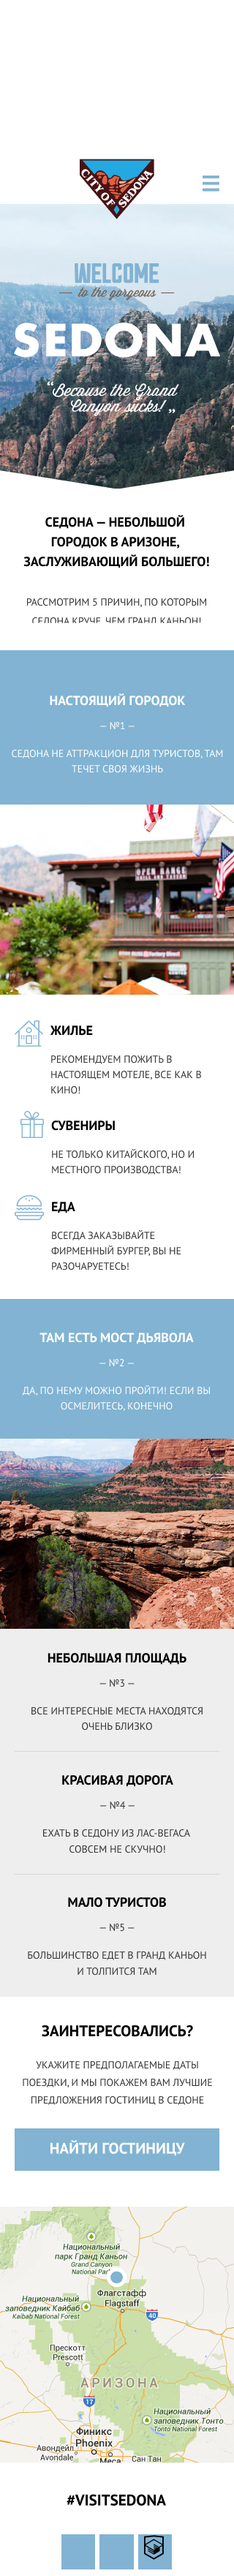
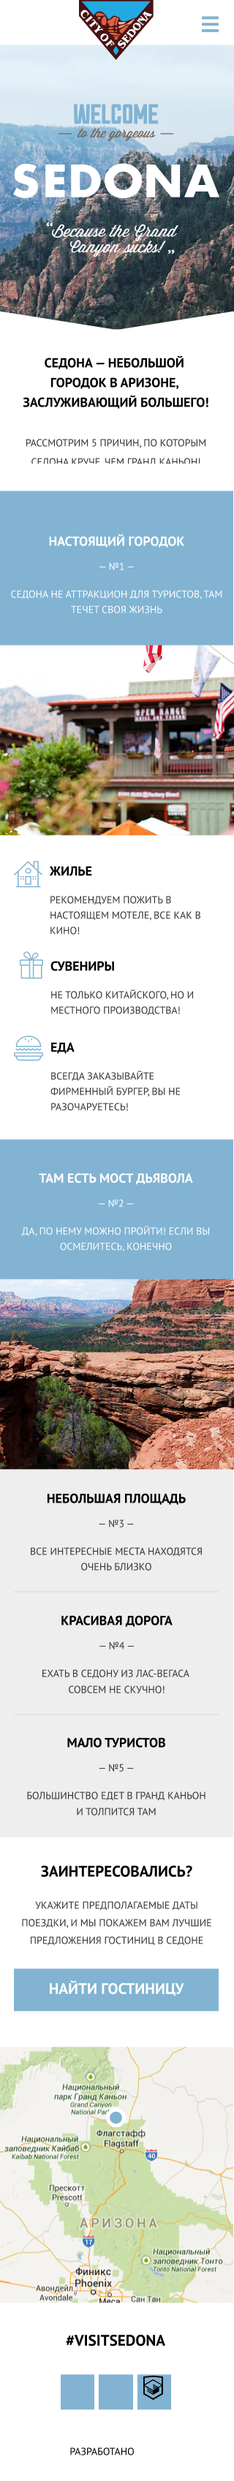
Правка нижней части шапки

diff --git a/docs/css/main.css b/docs/css/main.css
@@ -1,1 +1,1 @@
-*{margin:0;padding:0;box-sizing:border-box}img{vertical-align:top}@font-face{font-family:Roboto;src:url(../fonts/Roboto/Roboto-Regular.ttf) format("truetype")}body{font-family:'PT Sans',sans-serif}.wrapper{max-width:1200px;margin:0 auto}.header__top{background-color:#fff;padding-left:20px;padding-right:20px;position:relative;height:56px}.header__logo{position:absolute;display:block;top:0;left:50%;transform:translateX(-50%);flex-shrink:0}.burger{border:0;outline:0;display:block;width:32px;height:32px;position:relative;background-color:transparent;padding:0;cursor:pointer;flex-shrink:0}@media screen and (min-width:768px){.header__logo{z-index:5}.burger{display:none}}@media screen and (min-width:1200px){.burger{display:none}}.header__burger{margin-left:auto;padding-top:53px}.burger__item{position:absolute;width:24px;height:4px;background-color:#81b3d2;top:50%;left:50%;margin-top:-2px;margin-left:-12px;transition:transform .2s}.burger__item:first-child{transform:translateY(-9px)}.burger__item:last-child{transform:translateY(9px)}.burger._active .burger__item{background-color:#fff;z-index:99}.burger._active .burger__item:first-child{transform:translateY(0) rotate(45deg)}.burger._active .burger__item:last-child{transform:translateY(0) rotate(-45deg)}.burger._active .burger__item:nth-child(2){display:none}.nav{background-color:#81b3d2;position:absolute;top:0;left:0;right:0;z-index:5;display:none}.nav._active{display:block}.nav__list{list-style-type:none;position:relative;width:100%}.nav__list:after{content:'';position:absolute;bottom:0;left:0;right:0;height:7px;background:linear-gradient(180deg,rgba(0,0,0,0) 0,rgba(0,0,0,.2) 100%)}.nav__item{position:relative;width:100%}.nav__item:not(:last-child)::before{content:'';position:absolute;height:2px;left:0;right:0;bottom:0;background:linear-gradient(rgba(1,1,1,.2) 50%,rgba(255,255,255,.2) 50%)}.nav__link{display:block;font:700 14px/26px Roboto,Arial,Helvetica,sans-serif;text-transform:uppercase;text-decoration:none;text-align:center;padding-top:15px;padding-bottom:9px;color:#fff;transition:.5s}.nav__link:hover{opacity:.6}@media screen and (min-width:1024px){.nav__item:last-child{margin-right:0}}@media screen and (min-width:768px){.nav{display:flex;justify-content:center;background-color:#fff}.nav__item{width:20%}.nav__item:nth-child(3){margin-left:20%}.nav__item:last-child{margin-right:0}.nav__list{display:flex}.nav__link{color:#000}.nav__item:not(:last-child)::before{display:none}.nav__list:after{background:0 0}}
+*{margin:0;padding:0;box-sizing:border-box}img{vertical-align:top}@font-face{font-family:Roboto;src:url(../fonts/Roboto/Roboto-Regular.ttf) format("truetype")}body{font-family:"PT Sans",sans-serif}.wrapper{max-width:1200px;margin:0 auto}.header__top{background-color:#fff;padding-left:20px;padding-right:20px;position:relative;height:56px}.header__logo{position:absolute;display:block;top:0;left:50%;transform:translateX(-50%);flex-shrink:0;z-index:100}@media screen and (min-width:768px){.header__logo{z-index:5;height:84px;width:102px}}.header__bottom{padding-top:80px;padding-bottom:100px;background-image:image-set(url("../img/back-desktop.jpg") 1x, url("../img/back-desktop.webp") 2x);background-image:-webkit-image-set(url("../img/back-desktop.jpg") 1x, url("../img/back-desktop.webp") 2x);background-repeat:no-repeat;background-size:cover;background-position:bottom right;text-align:center;position:relative}@media screen and (min-width:768px){.header__bottom{padding-top:77px;padding-bottom:91px}}@media screen and (min-width:1024px){.header__logo{height:96px;width:187px}.header__bottom{padding-top:78px;padding-bottom:90px}.nav__item:last-child{margin-right:0}}.header__bottom:after{content:' ';position:absolute;bottom:0;left:0;right:0;height:57px;background:url(../img/intro-triangle.svg) bottom center no-repeat}.burger{border:0;outline:0;display:block;width:32px;height:32px;position:relative;background-color:transparent;padding:0;cursor:pointer;flex-shrink:0}@media screen and (min-width:768px){.burger{display:none}}@media screen and (min-width:1200px){.burger{display:none}}.header__burger{margin-left:auto;padding-top:53px}.burger__item{position:absolute;width:24px;height:4px;background-color:#81b3d2;top:50%;left:50%;margin-top:-2px;margin-left:-12px;transition:transform .2s}.burger__item:first-child{transform:translateY(-9px)}.burger__item:last-child{transform:translateY(9px)}.burger._active .burger__item{background-color:#fff;z-index:99}.burger._active .burger__item:first-child{transform:translateY(0) rotate(45deg)}.burger._active .burger__item:last-child{transform:translateY(0) rotate(-45deg)}.burger._active .burger__item:nth-child(2){display:none}.nav{background-color:#81b3d2;position:absolute;top:0;left:0;right:0;z-index:5;display:none}.nav._active{display:block}.nav__list{list-style-type:none;position:relative;width:100%}.nav__list:after{content:'';position:absolute;bottom:0;left:0;right:0;height:7px;background:linear-gradient(180deg,rgba(0,0,0,0) 0,rgba(0,0,0,.2) 100%)}.nav__item{position:relative;width:100%}.nav__item:not(:last-child)::before{content:'';position:absolute;height:2px;left:0;right:0;bottom:0;background:linear-gradient(rgba(1,1,1,.2) 50%,rgba(255,255,255,.2) 50%)}.nav__link{display:block;font:700 14px/26px Roboto,Arial,Helvetica,sans-serif;text-transform:uppercase;text-decoration:none;text-align:center;padding-top:15px;padding-bottom:9px;color:#fff;transition:.5s}.nav__link:hover{opacity:.6}@media screen and (min-width:768px){.nav{display:flex;justify-content:center;background-color:#fff}.nav__item{width:20%}.nav__item:nth-child(3){margin-left:20%}.nav__item:last-child{margin-right:0}.nav__list{display:flex}.nav__link{color:#000}.nav__item:not(:last-child)::before{display:none}.nav__list:after{background:0 0}}

diff --git a/docs/index.html b/docs/index.html
@@ -8,11 +8,11 @@
   <link rel="preconnect" href="https://fonts.googleapis.com">
   <link rel="preconnect" href="https://fonts.gstatic.com" crossorigin>
   <link href="https://fonts.googleapis.com/css2?family=PT+Sans:wght@400;700&display=swap" rel="stylesheet">
-  <link rel="stylesheet" href="css/main.css?t=1643561303100">
+  <link rel="stylesheet" href="css/main.css?t=1643825304290">
 </head>
 
 <body>
-  <picture>
+  <!-- <picture>
     <source media="(min-width: 1200px)" srcset="img/Desktop.jpg">
     <source media="(min-width: 768px)" srcset="img/Tablet.jpg">
     <img class="test" src="img/Mobile1.jpg" alt="">
@@ -32,7 +32,7 @@
       pointer-events: none;
       z-index: 1111;
     }
-  </style>
+  </style> -->
   <div class="wrapper">
     <header class="header">
       <div class="header__top">
@@ -48,7 +48,7 @@
           <picture>
             <source srcset="img/logo-desktop.svg" media="(min-width: 1024px)">
             <source srcset="img/logo-tablet.svg" media="(min-width: 768px)">
-            <img src="img/logo-mobile.svg" alt="Logo" width="120" height="84" class="logo header__logo">
+            <img src="img/logo-mobile.svg" alt="Logo" width="102" height="82" class="logo header__logo">
           </picture>
           <button type="button" class="burger header__burger js-burger" aria-label="Открыть меню">
             <span class="burger__item"></span>
@@ -56,6 +56,9 @@
             <span class="burger__item"></span>
           </button>
         </div>
+      </div>
+      <div class="header__bottom">
+        <picture><source srcset="img/text-index.svg" type="image/webp"><img src="img/text-index.svg" width="282" height="209" class="header__bottom-text" alt="Заполнить"></picture>
       </div>
     </header>
   </div>

diff --git a/app/scss/blocks/header.scss b/app/scss/blocks/header.scss
@@ -1,13 +1,11 @@
 .header {
-    
+
 }
 
 .wrapper {
     max-width: 1200px;
     margin: 0 auto;
 }
-
-
 
 .header__top {
     background-color: $header-bg;
@@ -19,8 +17,7 @@
 
 
 .header__container {
-    // padding-top: 16px;
-    // padding-bottom: 14px;
+
 }
 
 
@@ -31,10 +28,70 @@
     left: 50%;
     transform: translateX(-50%);
     flex-shrink: 0;
+    z-index: 100;
 }
+
 
 @media screen and(min-width: 768px) {
     .header__logo {
         z-index: 5;
+        height: 84px;
+        width: 102px;
     }
 }
+
+
+@media screen and(min-width: 1024px) {
+  .header__logo {
+    height: 96px;
+    width: 187px;
+  }
+}
+
+
+.header__bottom {
+    padding-top: 80px;
+    padding-bottom: 100px;
+    // background: url('../img/back-desktop.jpg') no-repeat bottom right/cover;
+    background-image: image-set(
+        url('../img/back-desktop.jpg') 1x,
+        url('../img/back-desktop.webp') 2x
+    );
+    background-image: -webkit-image-set(
+        url('../img/back-desktop.jpg') 1x,
+        url('../img/back-desktop.webp') 2x
+    );
+    background-repeat: no-repeat;
+    background-size: cover;
+    background-position: bottom right;
+    text-align: center;
+    position: relative;
+}
+
+
+@media screen and(min-width: 768px) {
+    .header__bottom {
+      padding-top: 77px;
+      padding-bottom: 91px;
+    }
+}
+
+
+@media screen and(min-width: 1024px) {
+    .header__bottom {
+      padding-top: 78px;
+      padding-bottom: 90px;
+    }
+}
+
+
+.header__bottom:after {
+    content: ' ';
+    position: absolute;
+    bottom: 0;
+    left: 0;
+    right: 0;
+    height: 57px;
+    background: url('../img/intro-triangle.svg') no-repeat bottom center;
+}
+

diff --git a/app/html/index.html b/app/html/index.html
@@ -12,7 +12,7 @@
 </head>
 
 <body>
-  <picture>
+  <!-- <picture>
     <source media="(min-width: 1200px)" srcset="img/Desktop.jpg">
     <source media="(min-width: 768px)" srcset="img/Tablet.jpg">
     <img class="test" src="img/Mobile1.jpg" alt="">
@@ -32,7 +32,7 @@
       pointer-events: none;
       z-index: 1111;
     }
-  </style>
+  </style> -->
   <div class="wrapper">
     <header class="header">
       <div class="header__top">
@@ -48,7 +48,7 @@
           <picture>
             <source srcset="img/logo-desktop.svg" media="(min-width: 1024px)">
             <source srcset="img/logo-tablet.svg" media="(min-width: 768px)">
-            <img src="img/logo-mobile.svg" alt="Logo" width="120" height="84" class="logo header__logo">
+            <img src="img/logo-mobile.svg" alt="Logo" width="102" height="82" class="logo header__logo">
           </picture>
           <button type="button" class="burger header__burger js-burger" aria-label="Открыть меню">
             <span class="burger__item"></span>
@@ -56,6 +56,9 @@
             <span class="burger__item"></span>
           </button>
         </div>
+      </div>
+      <div class="header__bottom">
+        <img src="img/text-index.svg" width="282" height="209" class="header__bottom-text" alt="Заполнить">
       </div>
     </header>
   </div>

diff --git a/app/scss/variables.scss b/app/scss/variables.scss
@@ -12,6 +12,9 @@ $title-color: #000;
 //buttons
 $button-primary-bg: #81B3D2;
 
+$box-item-color: red; //box__item
+$box-item-bg-color: green; //box__item
+
 //breakpoints
 
 

diff --git a/app/scss/blocks/body.scss b/app/scss/blocks/body.scss
@@ -1,4 +1,3 @@
 body {
-    font-family: 'PT Sans', sans-serif;
+  font-family: "PT Sans", sans-serif;
 }
-
